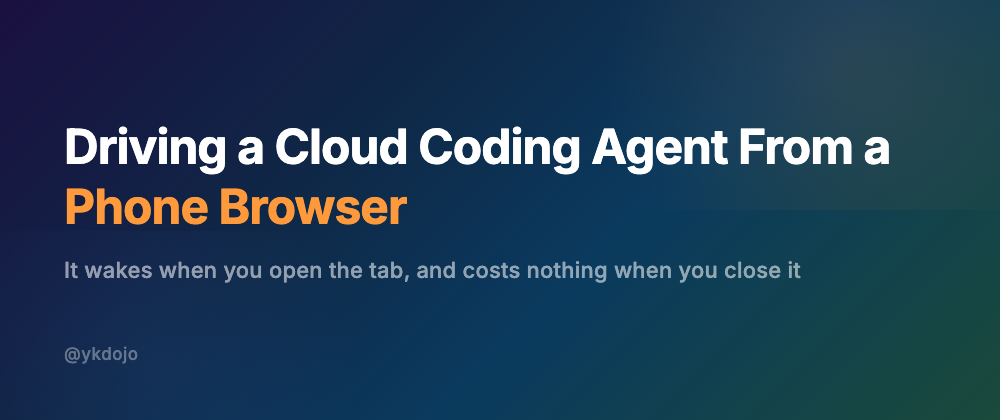
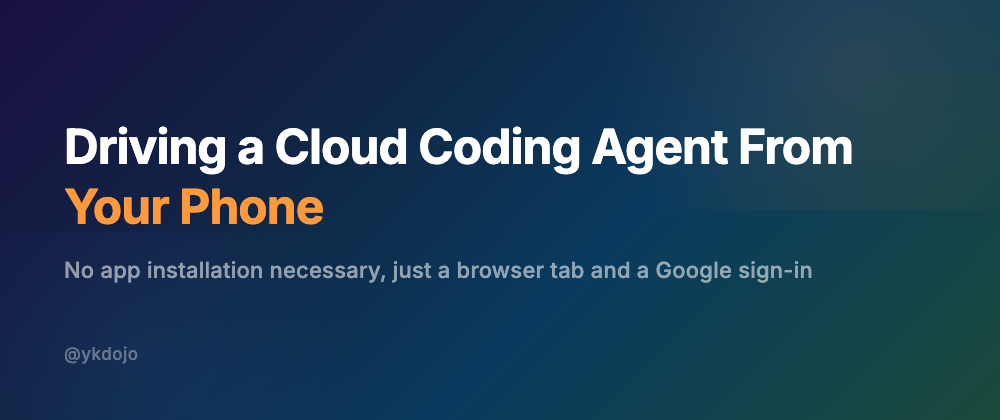
Post: title 'from your phone', tighter tl;dr, define IAP at first mention, phone-size hero mid-task, regenerate covers

Changed region(s): [[0.062, 0.619, 0.806, 0.681], [0.062, 0.4333, 0.403, 0.5571], [0.868, 0.3095, 0.899, 0.4024]]

diff --git a/assets/covers/phone-access.html b/assets/covers/phone-access.html
@@ -113,7 +113,7 @@
   /* Medium 1500x850 */
   .medium { width: 1500px; height: 850px; padding: 100px 110px; }
   .medium .title { font-size: 88px; max-width: 1250px; }
-  .medium .subtitle { font-size: 38px; margin-top: 40px; }
+  .medium .subtitle { font-size: 33px; margin-top: 40px; }
   .medium .author { font-size: 28px; }
 </style>
 </head>
@@ -128,8 +128,8 @@
       <div class="glow-orange"></div>
       <div class="glow-blue"></div>
       <div class="content">
-        <div class="title">Driving a Cloud Coding Agent${sep}From a <span class="highlight">Phone Browser</span></div>
-        <div class="subtitle">It wakes when you open the tab, and costs nothing when you close it</div>
+        <div class="title">Driving a Cloud Coding Agent${sep}From <span class="highlight">Your Phone</span></div>
+        <div class="subtitle">No app installation necessary, just a browser tab and a Google sign-in</div>
       </div>
       <div class="footer">
         <div class="author">@ykdojo</div>

diff --git a/posts/phone-access-iap.md b/posts/phone-access-iap.md
@@ -1,12 +1,10 @@
-# Driving a cloud coding agent from a phone browser
+# Driving a cloud coding agent from your phone (no app installation necessary)
 
 **tl;dr:** I put Google's Identity-Aware Proxy in front of a Cloud Run service
 running a coding agent in a web terminal. Now I open a URL on my phone, sign in
-with my Google account, and I'm talking to the agent. On a personal
-(no-organization) project this takes one extra step: IAP's automatic OAuth
-client doesn't apply there, so you wire up your own.
+with my Google account, and I'm talking to the agent.
 
-![The agy terminal, served from Cloud Run behind IAP](../assets/phone-access-terminal.jpg)
+![The agy terminal at phone size](../assets/phone-access-terminal-phone.png)
 
 **Source:** [github.com/ykdojo/antigravity-cloud-run](https://github.com/ykdojo/antigravity-cloud-run)
 
@@ -24,8 +22,10 @@ is idle and reclaims the instance after about 15 minutes, mid-use. The only fix
 is pinning the instance with min-instances=1, which costs money around the
 clock whether I'm using it or not.
 
-IAP flips that. You open the service's regular `run.app` URL, IAP shows a
-Google sign-in page, and then you're through to the terminal. The terminal's
+IAP flips that. Identity-Aware Proxy is Google Cloud's managed sign-in gate:
+you put it in front of a service, and only the Google accounts you allowlist
+get through. You open the service's regular `run.app` URL, sign in, and you're
+at the terminal. The terminal's
 WebSocket is a real ingress request, so opening the tab wakes the instance,
 keeps it alive while you're connected, and lets it scale back to zero when you
 close the tab. Pay only while you're looking at it. No app install either: any
